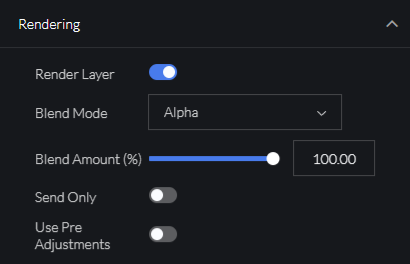
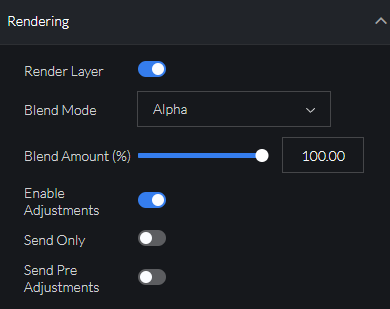
Update on Prism manual from tasks #96660 #96674 #96742

diff --git a/prismdocs/prism/play/layer-controls.md b/prismdocs/prism/play/layer-controls.md
@@ -129,6 +129,7 @@ This area controls the **Rendering** of Synergy Pixel Map texture.
 | **Render Layer** | Toggle the visibility of the layer. |
 | **Blend Modes**  | Blend mode is used to determine how multiple layers are combined to create a final visual result on a Surface. It controls how the pixel colours of one layer interact with the pixels of layers beneath it.<br/><br/> - **Additive** - Combines the values of the pixels, creating a blended image. <br/> - **Alpha (Default)** - Allows the use of transparent areas which need to be specified when created. <br/> - **Darken** - Keeps the darkest colour from the blended Layers <br/> -  **Difference** - Subtracts one colour value from the other and uses the result as the pixel colour to display. <br/> - **Exclude** - Similar to Difference mode but with lower contrast.<br/> - **Intensity Mix** - Blends Layers based on their intensity<br/> - **Inverse Luma** - Excludes areas of the image based on the luminosity of the pixels and the specified threshold.<br/> - **Inverse Mask** - Uses the layer as a mask for the layer below showing the image in the dark areas.<br/> - **Lighten** - Shows the highest of each colour component used across layers.<br/> - **Luma** – Excludes areas of the image based on the luminosity of the pixels and the specified threshold.<br/> - **Mask** – Uses the layer as a mask for the layer below showing the image in the light areas.<br/> - **Multiply** – Takes the values of the images, multiplys them together and returns the resulting value.<br/> - **Not Additive Mixing** - Non Additive Mixing shows the brightest pixel of the layers.<br/> - **Opaque** – Fully solid with no transparency.<br/> - **Screen** –  takes the values of the pixels in the two layers inverts, multiplys, and then inverts them again.<br/> - **Subtract** – The value of one layer is taken from the other layer. The resulting number is then used for the colour value.<br/> - **Tom Mask** –  When fully applied, it completely masks the layer below, functioning similarly to Multiply. Can fix issues when multiplying by 0.<br/><br/>*Note: Final result will depend on the [render order](../settings/settings-playback#renderer)*|
 | **Blend Amount (%)** | The blend amount controls the transition between the source (blended layer) and the destination (background layer) when applying a blend mode. It determines how much influence the blended source has over the final output, effectively interpolating between the two. When the blend amount is set to zero, the operation acts as a pass-through, meaning the destination remains unchanged, as no blending is applied.  |
+| **Enable Adjustments** | Enable / disable Layer adjustments e.g crop, colour correction, transformations |
 
 ### Virtual Return Properties
 
@@ -137,4 +138,4 @@ Will only affect [Virtual Return](./banks#virtual-return) bank elements.
 | Item | Description |
 |-----------------|------------|
 | **Send Only**  | When enabled, the layer will be ignored in the final Surface mix but will remain accessible for Virtual Return. This can improve performance when a layer is only needed for Virtual Return access and does not need to be included in the final Surface composition.  |
-| **Use Pre Adjustments**  | Specify whether Virtual Return should access the layer before or after layer adjustments are applied.  |
+| **Send Pre Adjustments**  | Specify whether Virtual Return should access the layer before or after layer adjustments are applied.  |

diff --git a/prismdocs/shared/play/layer-controls.md b/prismdocs/shared/play/layer-controls.md
@@ -131,6 +131,7 @@ This area controls the **Rendering** of Synergy Pixel Map texture.
 | **Render Layer** | Toggle the visibility of the layer. |
 | **Blend Modes**  | Blend mode is used to determine how multiple layers are combined to create a final visual result on a Surface. It controls how the pixel colours of one layer interact with the pixels of layers beneath it.<br/><br/> - **Additive** - Combines the values of the pixels, creating a blended image. <br/> - **Alpha (Default)** - Allows the use of transparent areas which need to be specified when created. <br/> - **Darken** - Keeps the darkest colour from the blended Layers <br/> -  **Difference** - Subtracts one colour value from the other and uses the result as the pixel colour to display. <br/> - **Exclude** - Similar to Difference mode but with lower contrast.<br/> - **Intensity Mix** - Blends Layers based on their intensity<br/> - **Inverse Luma** - Excludes areas of the image based on the luminosity of the pixels and the specified threshold.<br/> - **Inverse Mask** - Uses the layer as a mask for the layer below showing the image in the dark areas.<br/> - **Lighten** - Shows the highest of each colour component used across layers.<br/> - **Luma** – Excludes areas of the image based on the luminosity of the pixels and the specified threshold.<br/> - **Mask** – Uses the layer as a mask for the layer below showing the image in the light areas.<br/> - **Multiply** – Takes the values of the images, multiplys them together and returns the resulting value.<br/> - **Not Additive Mixing** - Non Additive Mixing shows the brightest pixel of the layers.<br/> - **Opaque** – Fully solid with no transparency.<br/> - **Screen** –  takes the values of the pixels in the two layers inverts, multiplys, and then inverts them again.<br/> - **Subtract** – The value of one layer is taken from the other layer. The resulting number is then used for the colour value.<br/> - **Tom Mask** –  When fully applied, it completely masks the layer below, functioning similarly to Multiply. Can fix issues when multiplying by 0.<br/><br/>*Note: Final result will depend on the [render order](../settings/settings-playback#renderer)*|
 | **Blend Amount (%)** | The blend amount controls the transition between the source (blended layer) and the destination (background layer) when applying a blend mode. It determines how much influence the blended source has over the final output, effectively interpolating between the two. When the blend amount is set to zero, the operation acts as a pass-through, meaning the destination remains unchanged, as no blending is applied.  |
+| **Enable Adjustments** | Enable / disable Layer adjustments e.g crop, colour correction, transformations |
 
 ### Virtual Return Properties
 
@@ -139,4 +140,4 @@ Will only affect [Virtual Return](./banks#virtual-return) bank elements.
 | Item | Description |
 |-----------------|------------|
 | **Send Only**  | When enabled, the layer will be ignored in the final Surface mix but will remain accessible for Virtual Return. This can improve performance when a layer is only needed for Virtual Return access and does not need to be included in the final Surface composition.  |
-| **Use Pre Adjustments**  | Specify whether Virtual Return should access the layer before or after layer adjustments are applied.  |
+| **Send Pre Adjustments**  | Specify whether Virtual Return should access the layer before or after layer adjustments are applied.  |

diff --git a/prismdocs/prism/play/banks.md b/prismdocs/prism/play/banks.md
@@ -59,8 +59,9 @@ Additionally, other standard video codecs such as **H264**, **H265**, **ProRes**
 To enhance playback performance, consider transcoding media into **Avolites AiM** codec. Media can be added to the [encoder](../encoder/encoder.md) list by the <Keys.PrismKey>Send To Encoder</Keys.PrismKey> button. 
 
 #### NDI Input
-Any active NDI sources on the network.
-Please see both [Settings](../settings/settings-inputs.md) and [Preview](../quick-start/preview.md) pages in order to setup and select NDI Sources.
+A list of active NDI sources on the network. Please see both [Settings](../settings/settings-inputs.md) and [Preview](../quick-start/preview.md) pages in order to setup and select NDI Sources.
+
+Prism NDI sources use the **NDI SDK**, a list of all features can be found [here](https://ndi.video/for-developers/#sdk-comparison).
 
 #### Live Input
 Any connected capture devices on the system.

diff --git a/prismdocs/prism/play/surfaces.md b/prismdocs/prism/play/surfaces.md
@@ -25,6 +25,7 @@ A `Synergy` label will appear on the surface once a Synergy connection has been 
 All management of **Surfaces** or **Layers** will be locked on the Stage page. Adding or removing **Layers** from the Prism UI will be restricted, as Titan will now have primary control of Prism. **Surfaces** & **Layers** can only be added or removed through the Titan interface. 
 
 More information on setting up Synergy can be found [here](/docs/synergy).
+
 ## Synergy Pixel Map Adjustments
 
 When a **Surface** is connected to **Synergy**, and a [Pixel Map](docs/synergy/operating-synergy#lightmap-pixel-mapping-media-content) has been setup, a `Pixel Map` label will also be shown on the **Surface**. This indicates that the Pixel Map is working correctly and Pixel Map Adjustments can be controled on the [Surfaces](./surfaces.md).

diff --git a/prismdocs/shared/settings/settings-synergy.md b/prismdocs/shared/settings/settings-synergy.md
@@ -7,6 +7,8 @@ import Keys from '@site/src/components/key.ts';
 
 **{{PRISM-APP}}** includes **Synergy** compatibility with **Avolites Titan**, providing easier setup as well as advanced features such as previewing of **{{PRISM-APP}}** within **Titan**, using the output from **{{PRISM-APP}}** within **Titan's Pixelmapper** and allowing media transfer directly from the console to **{{PRISM-APP}}**.
 
+*Note: Prism 2.0 requires the `Avolites_synergy_Prism.d4` personality from 21/02/2025, any older personality is not supported. Personalities can be downloaded [here](https://personalities.avolites.com/) searching for "Synergy".*
+
 More information on how to setup a **Synergy** connection can be found on this [guide](/docs/synergy).
 
 ![Settings Synergy](/prism-images/settings/settings-synergy.png)

diff --git a/prismdocs/prism/settings/settings-synergy.md b/prismdocs/prism/settings/settings-synergy.md
@@ -7,6 +7,8 @@ import Keys from '@site/src/components/key.ts';
 
 **Prism** includes **Synergy** compatibility with **Avolites Titan**, providing easier setup as well as advanced features such as previewing of **Prism** within **Titan**, using the output from **Prism** within **Titan's Pixelmapper** and allowing media transfer directly from the console to **Prism**.
 
+*Note: Prism 2.0 requires the `Avolites_synergy_Prism.d4` personality from 21/02/2025, any older personality is not supported. Personalities can be downloaded [here](https://personalities.avolites.com/) searching for "Synergy".*
+
 More information on how to setup a **Synergy** connection can be found on this [guide](/docs/synergy).
 
 ![Settings Synergy](/prism-images/settings/settings-synergy.png)

diff --git a/prismdocs/shared/play/banks.md b/prismdocs/shared/play/banks.md
@@ -64,8 +64,9 @@ To enhance playback performance, consider transcoding media into **Avolites AiM*
 
 {{PRISM-START-COMMENT}}
 #### NDI Input
-Any active NDI sources on the network.
-Please see both [Settings](../settings/settings-inputs.md) and [Preview](../quick-start/preview.md) pages in order to setup and select NDI Sources.
+A list of active NDI sources on the network. Please see both [Settings](../settings/settings-inputs.md) and [Preview](../quick-start/preview.md) pages in order to setup and select NDI Sources.
+
+Prism NDI sources use the **NDI SDK**, a list of all features can be found [here](https://ndi.video/for-developers/#sdk-comparison).
 
 #### Live Input
 Any connected capture devices on the system.
